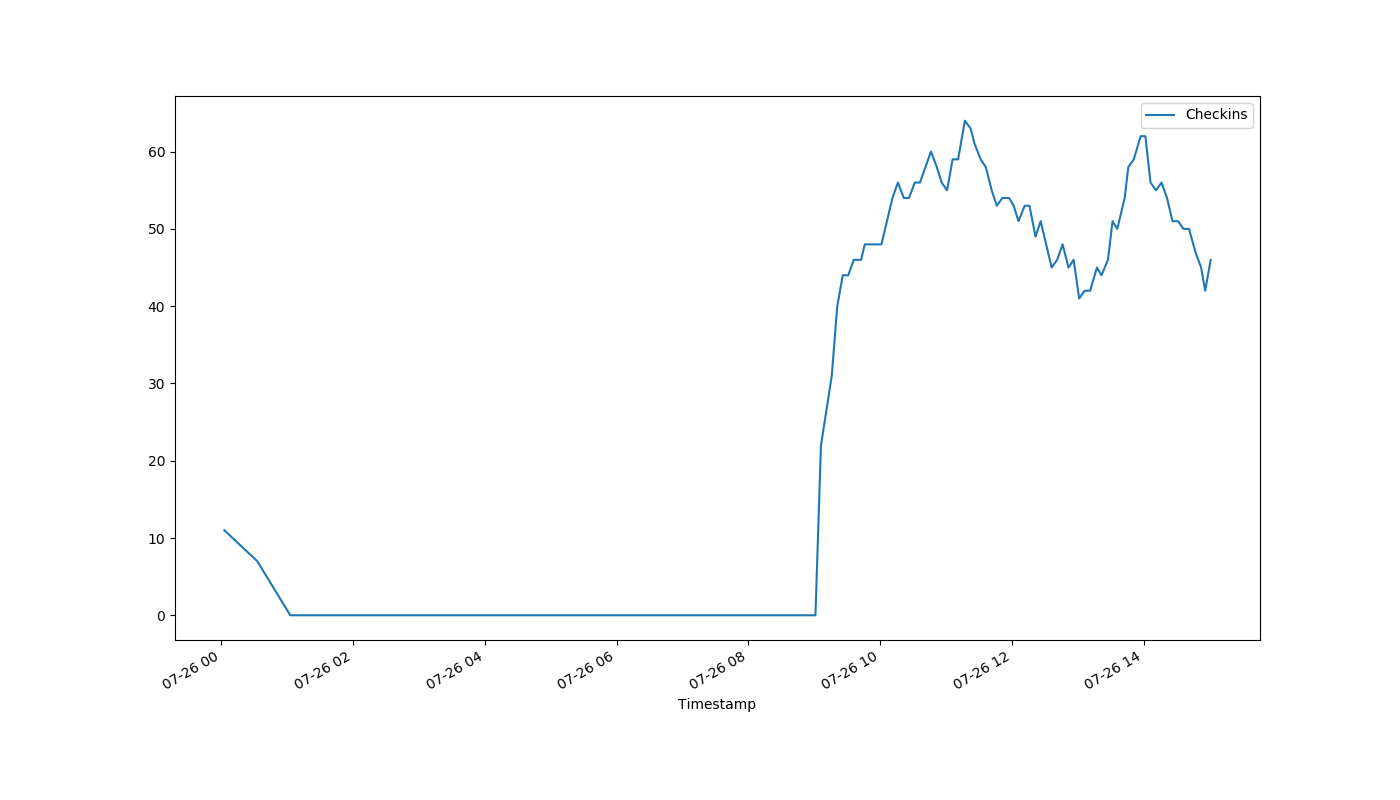
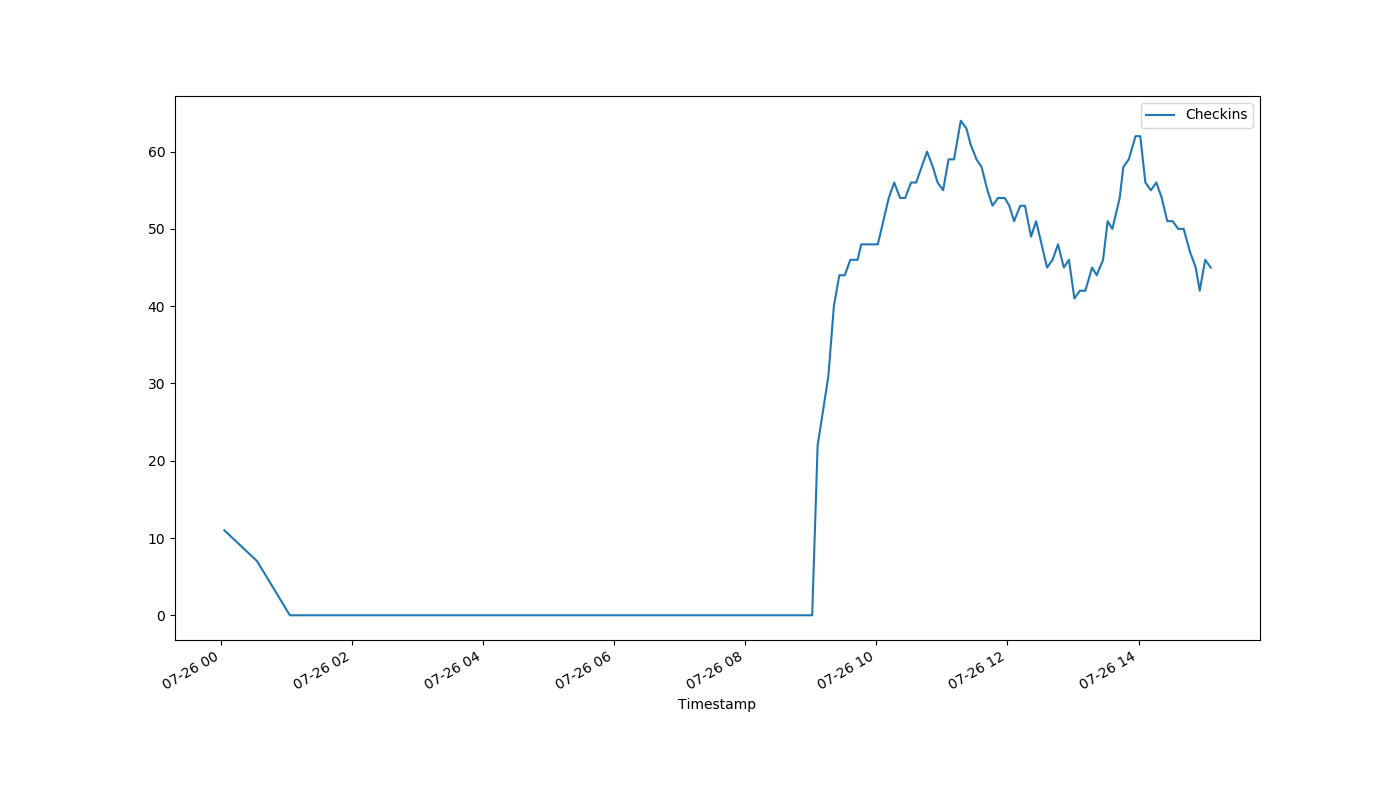
auto-Jul-26-15:06:51

diff --git a/index.html b/index.html
@@ -1,1 +1,1 @@
-<!DOCTYPE html><html><head><meta http-equiv="refresh" content="30"><link rel='stylesheet' href='holmcurrent.css'></head><body><p id='count'>46</p><div id='graph-wrap'><img id='graph' src='holmgraph-Jul-26.png'></div><p id='updated'>Last updated 15:01:07 / 15:01:02</p></body></html>
+<!DOCTYPE html><html><head><meta http-equiv="refresh" content="30"><link rel='stylesheet' href='holmcurrent.css'></head><body><p id='count'>45</p><div id='graph-wrap'><img id='graph' src='holmgraph-Jul-26.png'></div><p id='updated'>Last updated 15:06:07 / 15:06:03</p></body></html>
